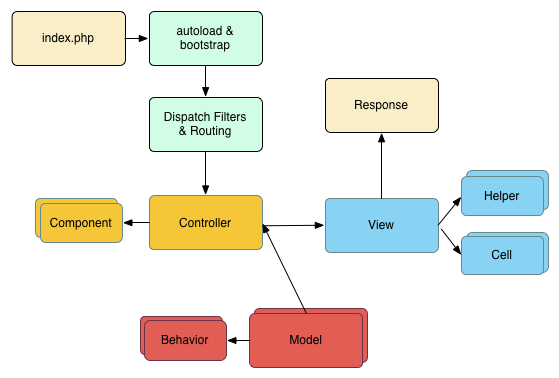
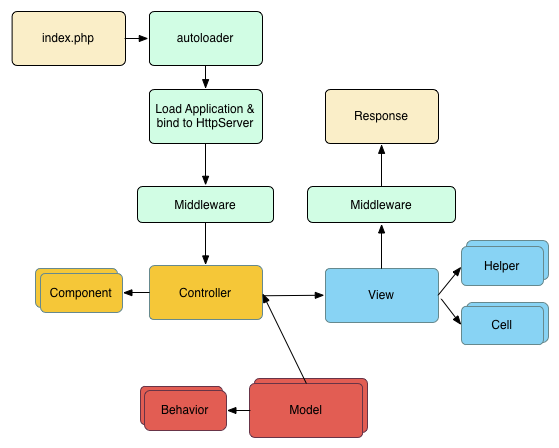
[ja] #4184

diff --git a/ja/intro.rst b/ja/intro.rst
@@ -82,8 +82,10 @@ XML 形式の結果をレンダリングできます。 ::
 コントローラ層はユーザからのリクエストを扱います。これはモデル層とビュー層の助けを借りてレスポンスを
 レンダリングして返す責任を負います。
 
-コントローラは、タスクを終える為の全ての必要とされるリソースが正しい労働者に委譲されることに注意を払うマネージャーと見ることができます。
-クライアントからの要求を待ち、認証と承認のルールによる検証を行い、データの取得または処理をモデルに委譲し、クライアントが受け入れる適切な表示上のデータの種類を採択し、最終的にその描画処理をビュー層に委譲します。
+コントローラは、タスクを終える為の全ての必要とされるリソースが正しい労働者に委譲されることに注意を払う
+マネージャーと見ることができます。
+クライアントからの要求を待ち、認証と承認のルールによる検証を行い、データの取得または処理をモデルに委譲し、
+クライアントが受け入れる適切な表示上のデータの種類を採択し、最終的にその描画処理をビュー層に委譲します。
 例えば、ユーザー登録ではこのようになります。 ::
 
     public function add()
@@ -101,7 +103,7 @@ XML 形式の結果をレンダリングできます。 ::
     }
 
 明示的にビューをレンダリングしないことに気付くかもしれません。 CakePHP は規約によって正しいビューを選択し、
-``set()`` で用意ビューデータでそのビューをレンダリングします。
+``set()`` で用意したビューデータでそのビューをレンダリングします。
 
 .. _request-cycle:
 
@@ -115,24 +117,28 @@ CakePHP のリクエストサイクル
    :alt: Flow diagram showing a typical CakePHP request
 
 典型的な CakePHP のリクエストサイクルはユーザがアプリケーション内でページまたはリソースにリクエストを
-投げるところから始まります。  高位のそれぞれのリクエストは以下のステップで動きします:
+投げるところから始まります。高位のそれぞれのリクエストは以下のステップで動きします:
 
-#. ウェブサーバーが **webroot/index.php** へのリクエストを制御するルールを書き換えます。
-#. アプリケーションの autoloader と bootstrap ファイルが実行されます。
-#. すべてのリクエストを扱い、追加オプションでレスポンスを生成するために設定されている
-   :doc:`ディスパッチフィルター </development/dispatch-filters>`
-#. ディスパッチャが適切なコントローラとアクションをルーティングルールに合わせて選択。
+#. ウェブサーバが **webroot/index.php** へのリクエストを制御するルールを書き換えます。
+#. あなたのアプリケーションがロードされ、 ``HttpServer`` にひも付きます。
+#. あなたのアプリケーションのミドルウェアが初期化されます。
+#. リクエストとレスポンスは、あなたのアプリケーションで使用する PSR-7 ミドルウェアを経由して
+   ディスパッチされます。これは、一般的にエラートラップとルーティングを含みます。
+#. ミドルウェアからレスポンスが返らない場合やリクエストがルーティング情報を含む場合、
+   コントローラとアクションが選択されます。
 #. コントローラのアクションが呼ばれ、コントローラが要求されたモデルとコンポーネントと通信します。
 #. コントローラが出力を生成するためにレスポンスの生成をビューに委任します。
-#. ビューがヘルパーとセルを使ってボディーとヘッダーを生成して返す。
-#. クライアントにレスポンスが返る。
+#. ビューがヘルパーとセルを使ってボディとヘッダを生成して返す。
+#. レスポンスは、 :doc:`/controllers/middleware` を経由して送信されます。
+#. ``HttpServer`` は、ウェブサーバにレスポンスを送ります。
 
 さっそく始めましょう
 ====================
 
 この文章があなたの興味を惹くことを願っています。CakePHP には他にもとてもいい特徴があります。:
 
-* Memcached, Redis や他のバックエンドと統合された :doc:`キャッシュ </core-libraries/caching>` フレームワーク。
+* Memcached, Redis や他のバックエンドと統合された :doc:`キャッシュ </core-libraries/caching>`
+  フレームワーク。
 * 強力な :doc:`コード生成ツール bake </bake/usage>` ですぐに簡単なモックを作ってプロジェクトを始める。
 * :doc:`統合されたテストフレームワーク </development/testing>` でコードが完璧に動いているか確かめられる。
 
